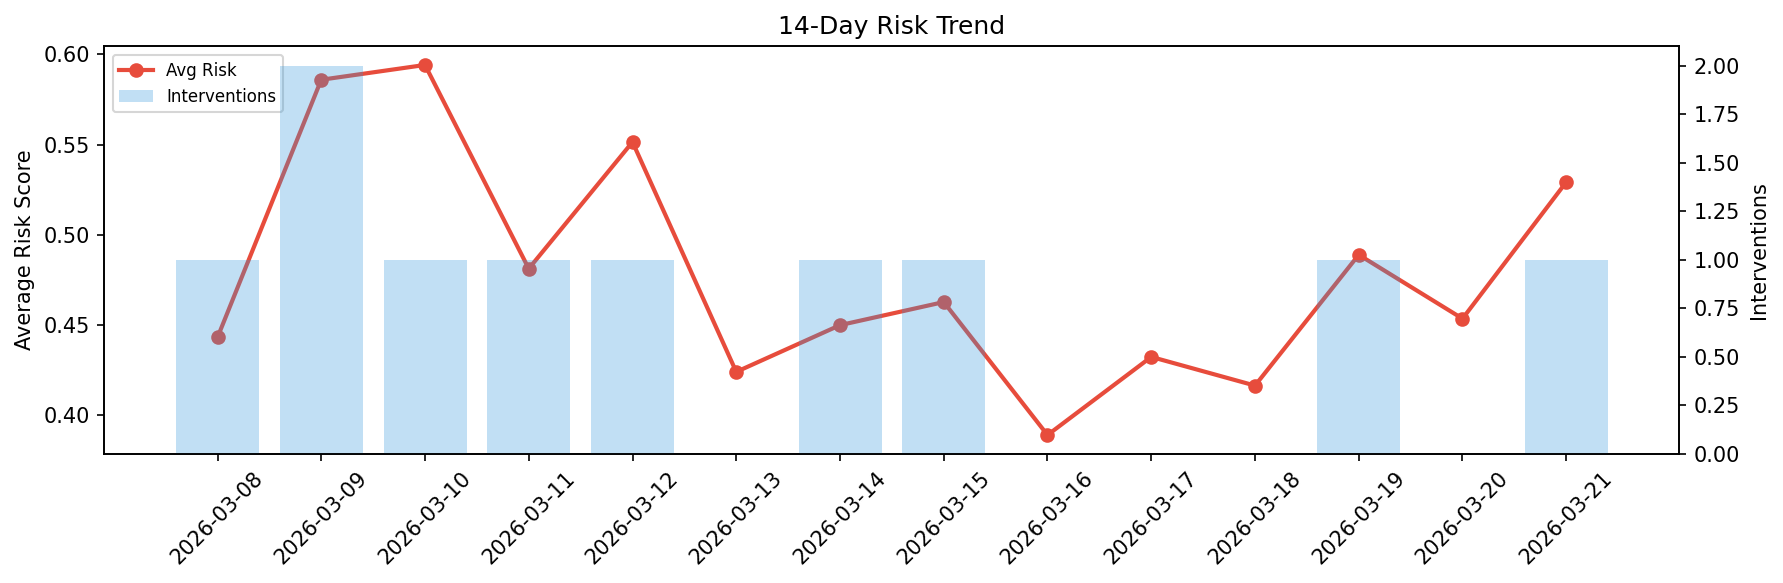
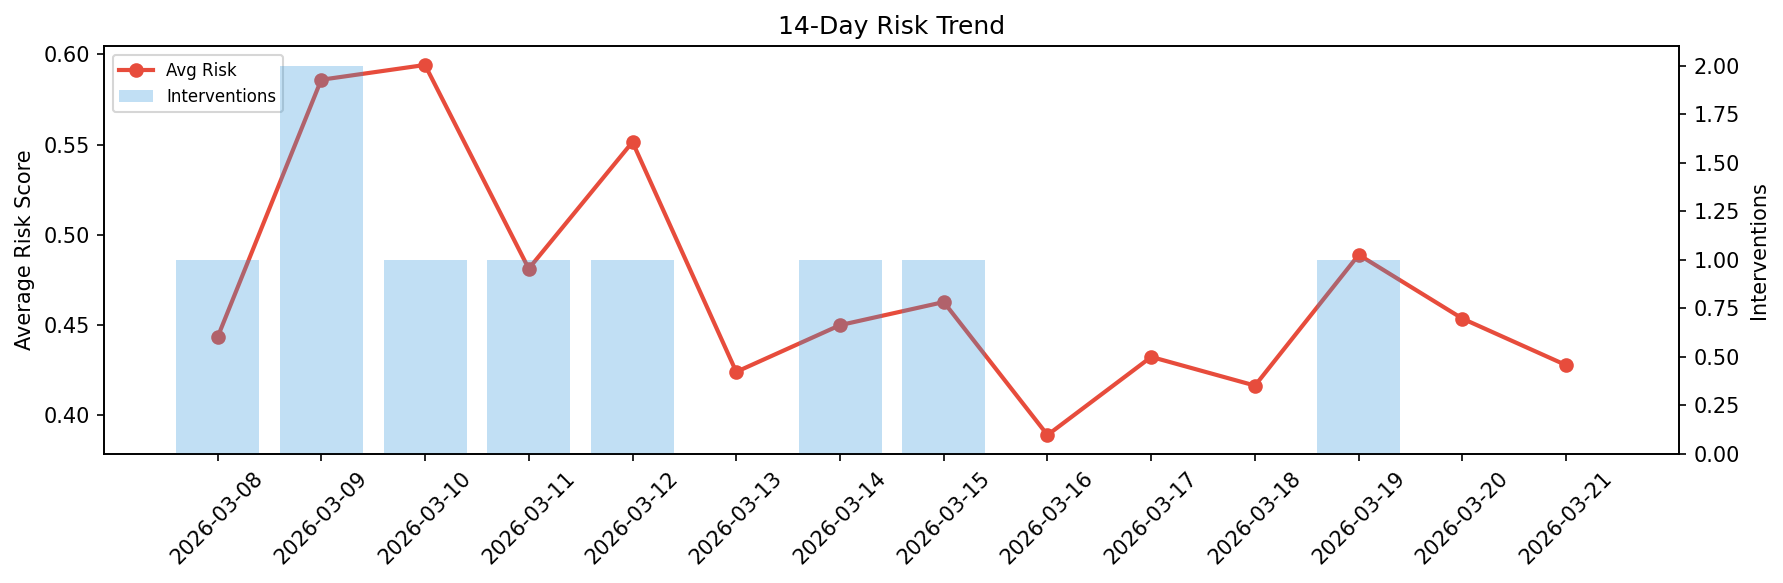
agent-improvement: daily cycle 2026-03-21T20:42

Changed region(s): [[0.802, 0.3705, 0.9254, 0.8027], [0.8637, 0.3087, 0.8946, 0.3705]]

diff --git a/logs/2026-03-21.md b/logs/2026-03-21.md
@@ -1,6 +1,6 @@
 # Agent Improvement Report — 2026-03-21
 
-**Cycle ID:** `8eecb27d` | **Avg Risk:** 0.5292 | **Interventions:** 1/4
+**Cycle ID:** `3c874086` | **Avg Risk:** 0.4277 | **Interventions:** 0/4
 
 ![Dashboard](2026-03-21_dashboard.png)
 
@@ -10,18 +10,18 @@
 
 | Domain | Risk Score | Decision | Alerts |
 |--------|-----------|----------|--------|
-| code_review | 0.4233 | monitor | coverage |
-| incident_response | 0.6291 | intervene | severity, mttr |
-| data_pipeline | 0.5218 | monitor | none |
-| deployment | 0.5424 | monitor | none |
+| code_review | 0.453 | monitor | none |
+| incident_response | 0.4707 | monitor | mttr |
+| data_pipeline | 0.2494 | monitor | none |
+| deployment | 0.5378 | monitor | none |
 
 ## Delta vs Yesterday
 
 | Domain | Today | Yesterday | Change |
 |--------|-------|-----------|--------|
-| code_review | 0.4233 | 0.4806 | 📉 -11.9% |
-| incident_response | 0.6291 | 0.4064 | 📈 54.8% |
-| data_pipeline | 0.5218 | 0.3847 | 📈 35.6% |
-| deployment | 0.5424 | 0.5422 | ➡ 0.0% |
+| code_review | 0.453 | 0.4806 | 📉 -5.7% |
+| incident_response | 0.4707 | 0.4064 | 📈 15.8% |
+| data_pipeline | 0.2494 | 0.3847 | 📉 -35.2% |
+| deployment | 0.5378 | 0.5422 | 📉 -0.8% |
 
 **Refinement:** `{'adjustment': 'tighten_thresholds', 'trend': 'degrading', 'window': 4}`
